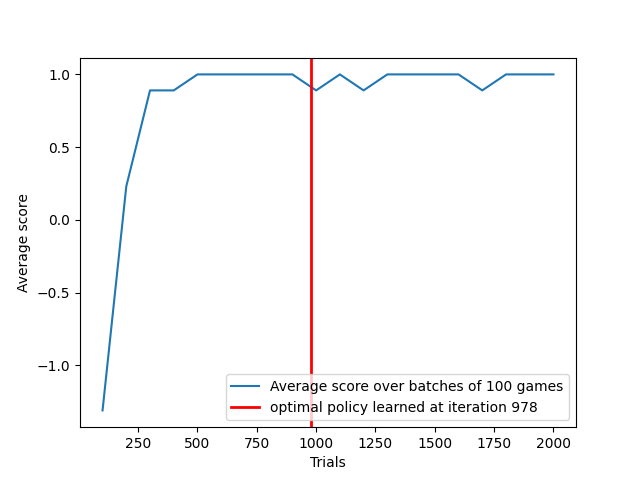
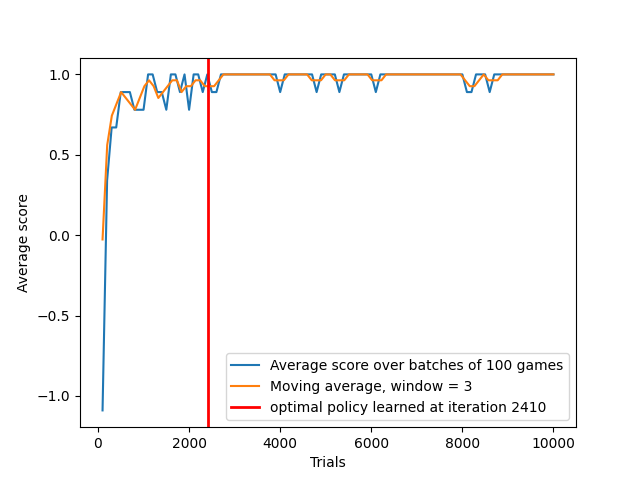
Obtained some results to put on the readme for presentation

diff --git a/QvP/nim_Q_agent.py b/QvP/nim_Q_agent.py
@@ -4,28 +4,29 @@ import random
 import numpy as np
 import matplotlib.pyplot as plt
 from nim_env_Q import *
+from evaluate_q_table import *
 
-def clear():
-    os.system( 'cls' )
-
-env = nim_env_Q(3,21,first_player="agent")
+i=3
+n=20
+opponent = scalable_player(1)
+#opponent = random_player()
+env = nim_env_Q(i,n,opponent,first_player="opponent")
 
 q_table = np.zeros([(env.n)+4, env.action_space_n])
 
 # Hyperparameters
-alpha = 0.5
-gamma = 0.4
+alpha = 0.1
+gamma = 0.1
 epsilon = 1.0
-epsilon_min = 0.00001
+epsilon_min = 0.001
 epsilon_decay = 0.995
 
 # For plotting metrics
-trials  = 2000
-test_batches = 100 # n games per batch
-x=np.arange(test_batches,trials+test_batches,test_batches)
-scores = [[] for i in range(trials//test_batches)]
-
-q_3_memory= np.zeros((3,trials))
+trials  = 1000
+batch_size = 10 # n games per batch
+x=np.arange(batch_size,trials+batch_size,batch_size)
+scores = [[] for i in range(trials//batch_size)]
+optimal_table_reached = False
 
 for trial in range(trials):
     state = env.reset()
@@ -50,15 +51,23 @@ for trial in range(trials):
 
         state = next_state
 
-    #q_3_memory[0][trial] = q_table[3][0]
-    #q_3_memory[1][trial] = q_table[3][1]
-    #q_3_memory[2][trial] = q_table[3][2]
-    # print(trial)
-    # clear()
-    scores[trial//test_batches].append(reward)
+        if not optimal_table_reached:
+            evaluator = evaluate_q_table(i,n,q_table)
+            if evaluator.evaluate_q_table():
+                optimal_table_reached = True
+                optimal_iter = trial
+
+    scores[trial//batch_size].append(reward)
+
+evaluator = evaluate_q_table(i,n,q_table)
+if not evaluator.evaluate_q_table():
+    print("final faulty q_table: ", evaluator.faulty_rows())
+    for faulty_row in evaluator.faulty_rows():
+        print(q_table[faulty_row])
+
 
 y = [np.mean(batch) for batch in scores]
-plt.plot(x,y,label=f"Average score over batches of {test_batches} games")
+plt.plot(x,y,label=f"Average score over batches of {batch_size} games")
 
 window_size = 3 #compute MA
 i = 0
@@ -69,8 +78,10 @@ while i < len(y) - window_size + 1:
     window_average = sum(this_window) / window_size
     moving_averages.append(window_average)
     i += 1
-x_MA = np.linspace(test_batches,trials,len(moving_averages))
+x_MA = np.linspace(batch_size,trials,len(moving_averages))
 plt.plot(x_MA,moving_averages,label=f"Moving average, window = {window_size}")
+if optimal_table_reached:
+    plt.axvline(x=optimal_iter, color='r', linestyle='-', linewidth = 2,label=f"optimal policy learned at iteration {optimal_iter}")
 plt.xlabel("Trials")
 plt.ylabel(f"Average score")
 plt.legend()

diff --git a/QvP/nim_env_Q.py b/QvP/nim_env_Q.py
@@ -1,11 +1,10 @@
 import random
 import numpy as np
-from nim import *
-from nim_players import *
+from nim_programmed_players import *
 
 class nim_env_Q():
-    def __init__(self,i,n, first_player = "agent"):
-        self.random_player=random_player()
+    def __init__(self,i,n,opponent,first_player = "agent"):
+        self.opponent=opponent
         self.i = i
         self.n = n
         self.tot = 0
@@ -23,10 +22,10 @@ class nim_env_Q():
         self.tot=0
         # make random player start
         if self.first_player == "opponent":
-            self.tot += self.random_player.play(self.i,self.n,self.tot,self.player_flag) 
+            self.tot += self.opponent.play(self.i,self.n,self.tot,self.player_flag) 
         elif self.first_player == "random":
             if random.random > 0.5:
-                self.tot += self.random_player.play(self.i,self.n,self.tot,self.player_flag) 
+                self.tot += self.opponent.play(self.i,self.n,self.tot,self.player_flag) 
         self.player_flag=1
         return self.tot
     def update_state(self):
@@ -47,7 +46,7 @@ class nim_env_Q():
             self.done=True
             return self.tot, reward, self.done
         # opponent's move
-        self.tot += self.random_player.play(self.i,self.n,self.tot,self.player_flag)
+        self.tot += self.opponent.play(self.i,self.n,self.tot,self.player_flag)
         self.player_flag=1
         if self.tot<=self.n:
             reward = 0

diff --git a/QvP/evaluate_q_table.py b/QvP/evaluate_q_table.py
@@ -1,0 +1,40 @@
+import numpy as np
+
+
+class evaluate_q_table():
+    # class which evaluates whether a q-table has reached the optimal policy
+    def __init__(self,i,n,q_table):
+        self.i=i
+        self.n=n
+        self.q_table=q_table
+        self.row_evaluations = None
+    def evaluate_row(self,row_i):
+        a = self.n
+        while a > row_i :
+            prev_a = a
+            a -= self.i+1
+        if a == row_i:
+            return True
+        if row_i == 0 or row_i == 1:
+            if all(item == 0 for item in self.q_table[row_i]):
+                return True
+        optimal_play = prev_a - row_i
+        if self.q_table[row_i].argmax() == optimal_play-1:
+            return True
+        else:
+            return False
+    def evaluate_q_table(self):
+        self.row_evaluations = [self.evaluate_row(row_i) for row_i in range(self.n+1)]
+        if all(item for item in self.row_evaluations):
+            return True
+        else:
+            return False
+    def faulty_rows(self):
+        return [i for i,state in enumerate(self.row_evaluations) if not state]
+
+
+# eg_table = np.array([[10,2,3],[2,3,4],[3,20,4],[10,2,3],[2,3,4],[3,2,4],[1,28,3],[29,3,4],[30,2,4]])
+# evaluator = evaluate_q_table(3,9,eg_table)
+# if not evaluator.evaluate_q_table():
+#     print(evaluator.faulty_rows())
+# print(evaluator.row_evaluations)

diff --git a/evaluate_q_table.py b/evaluate_q_table.py
@@ -1,0 +1,40 @@
+import numpy as np
+
+
+class evaluate_q_table():
+    # class which evaluates whether a q-table has reached the optimal policy
+    def __init__(self,i,n,q_table):
+        self.i=i
+        self.n=n
+        self.q_table=q_table
+        self.row_evaluations = None
+    def evaluate_row(self,row_i):
+        a = self.n
+        while a > row_i :
+            prev_a = a
+            a -= self.i+1
+        if a == row_i:
+            return True
+        if row_i == 0 or row_i == 1:
+            if all(item == 0 for item in self.q_table[row_i]):
+                return True
+        optimal_play = prev_a - row_i
+        if self.q_table[row_i].argmax() == optimal_play-1:
+            return True
+        else:
+            return False
+    def evaluate_q_table(self):
+        self.row_evaluations = [self.evaluate_row(row_i) for row_i in range(self.n+1)]
+        if all(item for item in self.row_evaluations):
+            return True
+        else:
+            return False
+    def faulty_rows(self):
+        return [i for i,state in enumerate(self.row_evaluations) if not state]
+
+
+# eg_table = np.array([[10,2,3],[2,3,4],[3,20,4],[10,2,3],[2,3,4],[3,2,4],[1,28,3],[29,3,4],[30,2,4]])
+# evaluator = evaluate_q_table(3,9,eg_table)
+# if not evaluator.evaluate_q_table():
+#     print(evaluator.faulty_rows())
+# print(evaluator.row_evaluations)

diff --git a/QvP/nim_programmed_players.py b/QvP/nim_programmed_players.py
@@ -1,5 +1,28 @@
 import random
 
+class scalable_player():
+    def __init__(self,skill):
+        self.skill = skill
+        pass
+    def play(self,i,n,tot,player_flag,opts=[]):
+        a = n
+        while a > tot:
+            prev_a = a
+            a -= i+1
+        if a == tot:
+            if "exploit" in opts:
+                if random.random() <= self.skill:
+                    return 1
+                else:
+                    return random.randint(1,i)
+            else:
+                return random.randint(1,i)
+        optimal_play = prev_a - tot
+        if random.random() <= self.skill:
+            return optimal_play
+        else:
+            return random.randint(1,i)
+
 class random_player():
     def __init__(self):
         pass

diff --git a/moving_average.py b/moving_average.py
@@ -1,0 +1,13 @@
+import numpy as np
+
+def moving_average(scores,batch_size,trials,window_MA=10):
+    y = [np.mean(batch) for batch in scores]
+    i = 0
+    y_MA = []
+    while i < len(y) - window_MA + 1:
+        this_window = y[i : i + window_MA]
+        window_average = sum(this_window)/window_MA
+        y_MA.append(window_average)
+        i += 1
+    x_MA = np.linspace(0.5*batch_size,trials-0.5*batch_size,len(y_MA))
+    return x_MA, y_MA
